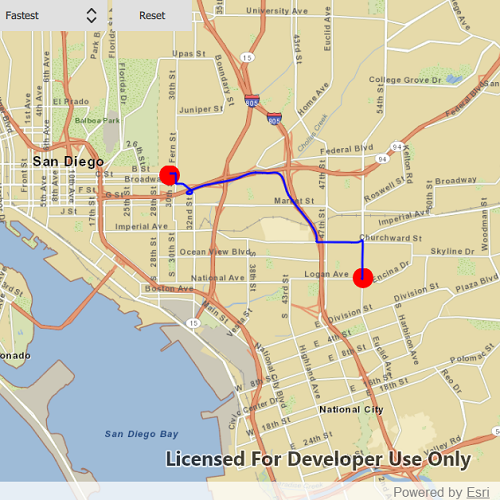
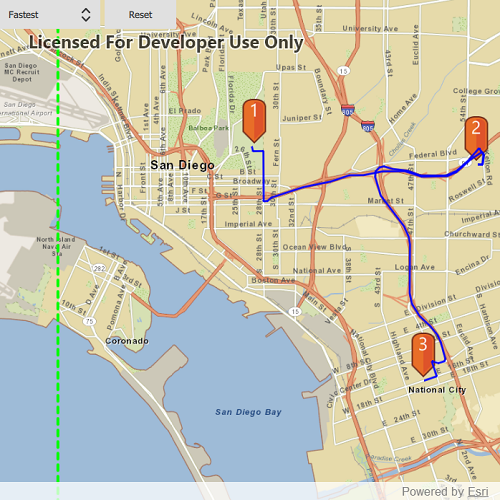
Use CompositeSymbols to mark stops

diff --git a/ArcGISRuntimeSDKQt_QMLSamples/Routing/OfflineRouting/OfflineRouting.qml b/ArcGISRuntimeSDKQt_QMLSamples/Routing/OfflineRouting/OfflineRouting.qml
@@ -28,6 +28,7 @@ Rectangle {
     height: 600
 
     readonly property url dataPath: System.userHomePath + "/ArcGIS/Runtime/Data/tpk/"
+    readonly property url pinUrl: "qrc:/Samples/Routing/OfflineRouting/orange_symbol.png"
     property var findRoute;
     property Graphic selectedGraphic: null;
 
@@ -83,6 +84,14 @@ Rectangle {
                     width: 2
                 }
             }
+        }
+
+        PictureMarkerSymbol {
+            id: pinSymbol
+            url: pinUrl
+            height: 50
+            width: 50
+            offsetY: height/2
         }
 
         GraphicsOverlay {
@@ -194,11 +203,16 @@ Rectangle {
                     console.warn("Outside of routable area");
                     return;
                 }
-                const stopLabel = ArcGISRuntimeEnvironment.createObject("TextSymbol", {color: "red",
-                                                                            horizontalAlignment: Enums.HorizontalAlignmentRight,
-                                                                            verticalAlignment: Enums.VerticalAlignmentTop,
+                const textSymbol = ArcGISRuntimeEnvironment.createObject("TextSymbol", {color: "white",
+                                                                            horizontalAlignment: Enums.HorizontalAlignmentCenter,
+                                                                            verticalAlignment: Enums.VerticalAlignmentBottom,
                                                                             size: 20, text: stopsOverlay.graphics.count + 1});
-                const stopGraphic = ArcGISRuntimeEnvironment.createObject("Graphic", {geometry: clickedPoint, symbol: stopLabel});
+                textSymbol.offsetY = pinSymbol.height/2;
+                const stopSymbol = ArcGISRuntimeEnvironment.createObject("CompositeSymbol");
+                stopSymbol.symbols.append(pinSymbol);
+                stopSymbol.symbols.append(textSymbol);
+
+                const stopGraphic = ArcGISRuntimeEnvironment.createObject("Graphic", {geometry: clickedPoint, symbol: stopSymbol});
                 stopsOverlay.graphics.append(stopGraphic);
                 routeTask.findRoute();
             }

diff --git a/ArcGISRuntimeSDKQt_CppSamples/Routing/OfflineRouting/OfflineRouting.cpp b/ArcGISRuntimeSDKQt_CppSamples/Routing/OfflineRouting/OfflineRouting.cpp
@@ -21,12 +21,14 @@
 #include "OfflineRouting.h"
 
 #include "ArcGISTiledLayer.h"
+#include "CompositeSymbol.h"
 #include "Envelope.h"
 #include "GeometryEngine.h"
 #include "Graphic.h"
 #include "GraphicsOverlay.h"
 #include "Map.h"
 #include "MapQuickView.h"
+#include "PictureMarkerSymbol.h"
 #include "Polyline.h"
 #include "RouteParameters.h"
 #include "RouteResult.h"
@@ -60,11 +62,12 @@ QString defaultDataPath()
 
   return dataPath;
 }
-
+const QUrl pinUrl("qrc:/Samples/Routing/OfflineRouting/orange_symbol.png");
 } // namespace
 
 OfflineRouting::OfflineRouting(QObject* parent /* = nullptr */):
   QObject(parent),
+  m_pinSymbol(new PictureMarkerSymbol(pinUrl, this)),
   m_stopsOverlay(new GraphicsOverlay(this)),
   m_routeOverlay(new GraphicsOverlay(this))
 {
@@ -85,6 +88,10 @@ OfflineRouting::OfflineRouting(QObject* parent /* = nullptr */):
   SimpleLineSymbol* lineSymbol = new SimpleLineSymbol(SimpleLineSymbolStyle::Solid, Qt::blue, 2, this);
   SimpleRenderer* routeRenderer = new SimpleRenderer(lineSymbol, this);
   m_routeOverlay->setRenderer(routeRenderer);
+
+  m_pinSymbol->setHeight(50);
+  m_pinSymbol->setWidth(50);
+  m_pinSymbol->setOffsetY(m_pinSymbol->height() / 2);
 
   const QString geodatabaseLocation = folderLocation + QString("/sandiego.geodatabase");
   m_routeTask = new RouteTask(geodatabaseLocation, "Streets_ND", this);
@@ -188,7 +195,9 @@ void OfflineRouting::connectSignals()
         qWarning() << "Outside of routable area.";
         return;
       }
-      TextSymbol* stopLabel = new TextSymbol(QString::number(m_stopsOverlay->graphics()->size() + 1), Qt::red, 20, HorizontalAlignment::Right, VerticalAlignment::Top, this);
+      TextSymbol* textSymbol = new TextSymbol(QString::number(m_stopsOverlay->graphics()->size() + 1), Qt::white, 20, HorizontalAlignment::Center, VerticalAlignment::Bottom, this);
+      textSymbol->setOffsetY(m_pinSymbol->height() / 2);
+      CompositeSymbol* stopLabel = new CompositeSymbol(QList<Symbol*>{m_pinSymbol, textSymbol}, this);
       Graphic* stopGraphic = new Graphic(m_mapView->screenToLocation(e.x(), e.y()), stopLabel, this);
       m_stopsOverlay->graphics()->append(stopGraphic);
       findRoute();

diff --git a/ArcGISRuntimeSDKQt_CppSamples/Routing/OfflineRouting/OfflineRouting.h b/ArcGISRuntimeSDKQt_CppSamples/Routing/OfflineRouting/OfflineRouting.h
@@ -29,6 +29,7 @@ class Graphic;
 class GraphicsOverlay;
 class Map;
 class MapQuickView;
+class PictureMarkerSymbol;
 class RouteTask;
 }
 }
@@ -70,6 +71,7 @@ private:
   Esri::ArcGISRuntime::Map* m_map = nullptr;
   Esri::ArcGISRuntime::MapQuickView* m_mapView = nullptr;
 
+  Esri::ArcGISRuntime::PictureMarkerSymbol* m_pinSymbol = nullptr;
   Esri::ArcGISRuntime::Graphic* m_selectedGraphic = nullptr;
   Esri::ArcGISRuntime::GraphicsOverlay* m_stopsOverlay = nullptr;
   Esri::ArcGISRuntime::GraphicsOverlay* m_routeOverlay = nullptr;

diff --git a/ArcGISRuntimeSDKQt_CppSamples/Routing/OfflineRouting/README.md b/ArcGISRuntimeSDKQt_CppSamples/Routing/OfflineRouting/README.md
@@ -6,7 +6,7 @@ This sample demonstrates how to solve a route on-the-fly using offline data.
 
 ## How to use the sample
 
-Click near a road to add a stop to the route. A red graphic will show the position of the stop. After adding at least 2 stops, a route will display. Use the combo box in the top left corner to choose between the travel modes "Fastest" and "Shortest" (how the route is optimized). To move a stop, click on the graphic, and while continuing to press on the graphic, move the mouse to reposition. Release the mouse to set the new position. The route will update on-the-fly while moving stops. The green box marks the boundary of the route geodatabase.
+Click near a road to start adding a stop to the route, click again to place it on the map. A number graphic will show its order in the route. After adding at least 2 stops, a route will display. Choose "Fastest" or "Shortest" to control how the route is optimized. To move a stop, click on the graphic, and while continuing to press on the graphic, move the mouse to reposition. Release the mouse to set the new position. The route will update on-the-fly while moving stops. The green box marks the boundary of the route geodatabase.
 
 ## How it works
 

diff --git a/ArcGISRuntimeSDKQt_QMLSamples/Routing/OfflineRouting/README.md b/ArcGISRuntimeSDKQt_QMLSamples/Routing/OfflineRouting/README.md
@@ -6,7 +6,7 @@ This sample demonstrates how to solve a route on-the-fly using offline data.
 
 ## How to use the sample
 
-Click near a road to add a stop to the route. A red graphic will show the position of the stop. After adding at least 2 stops, a route will display. Use the combo box in the top left corner to choose between the travel modes "Fastest" and "Shortest" (how the route is optimized). To move a stop, click on the graphic, and while continuing to press on the graphic, move the mouse to reposition. Release the mouse to set the new position. The route will update on-the-fly while moving stops. The green box marks the boundary of the route geodatabase.
+Click near a road to start adding a stop to the route, click again to place it on the map. A number graphic will show its order in the route. After adding at least 2 stops, a route will display. Choose "Fastest" or "Shortest" to control how the route is optimized. To move a stop, click on the graphic, and while continuing to press on the graphic, move the mouse to reposition. Release the mouse to set the new position. The route will update on-the-fly while moving stops. The green box marks the boundary of the route geodatabase.
 
 ## How it works
 
